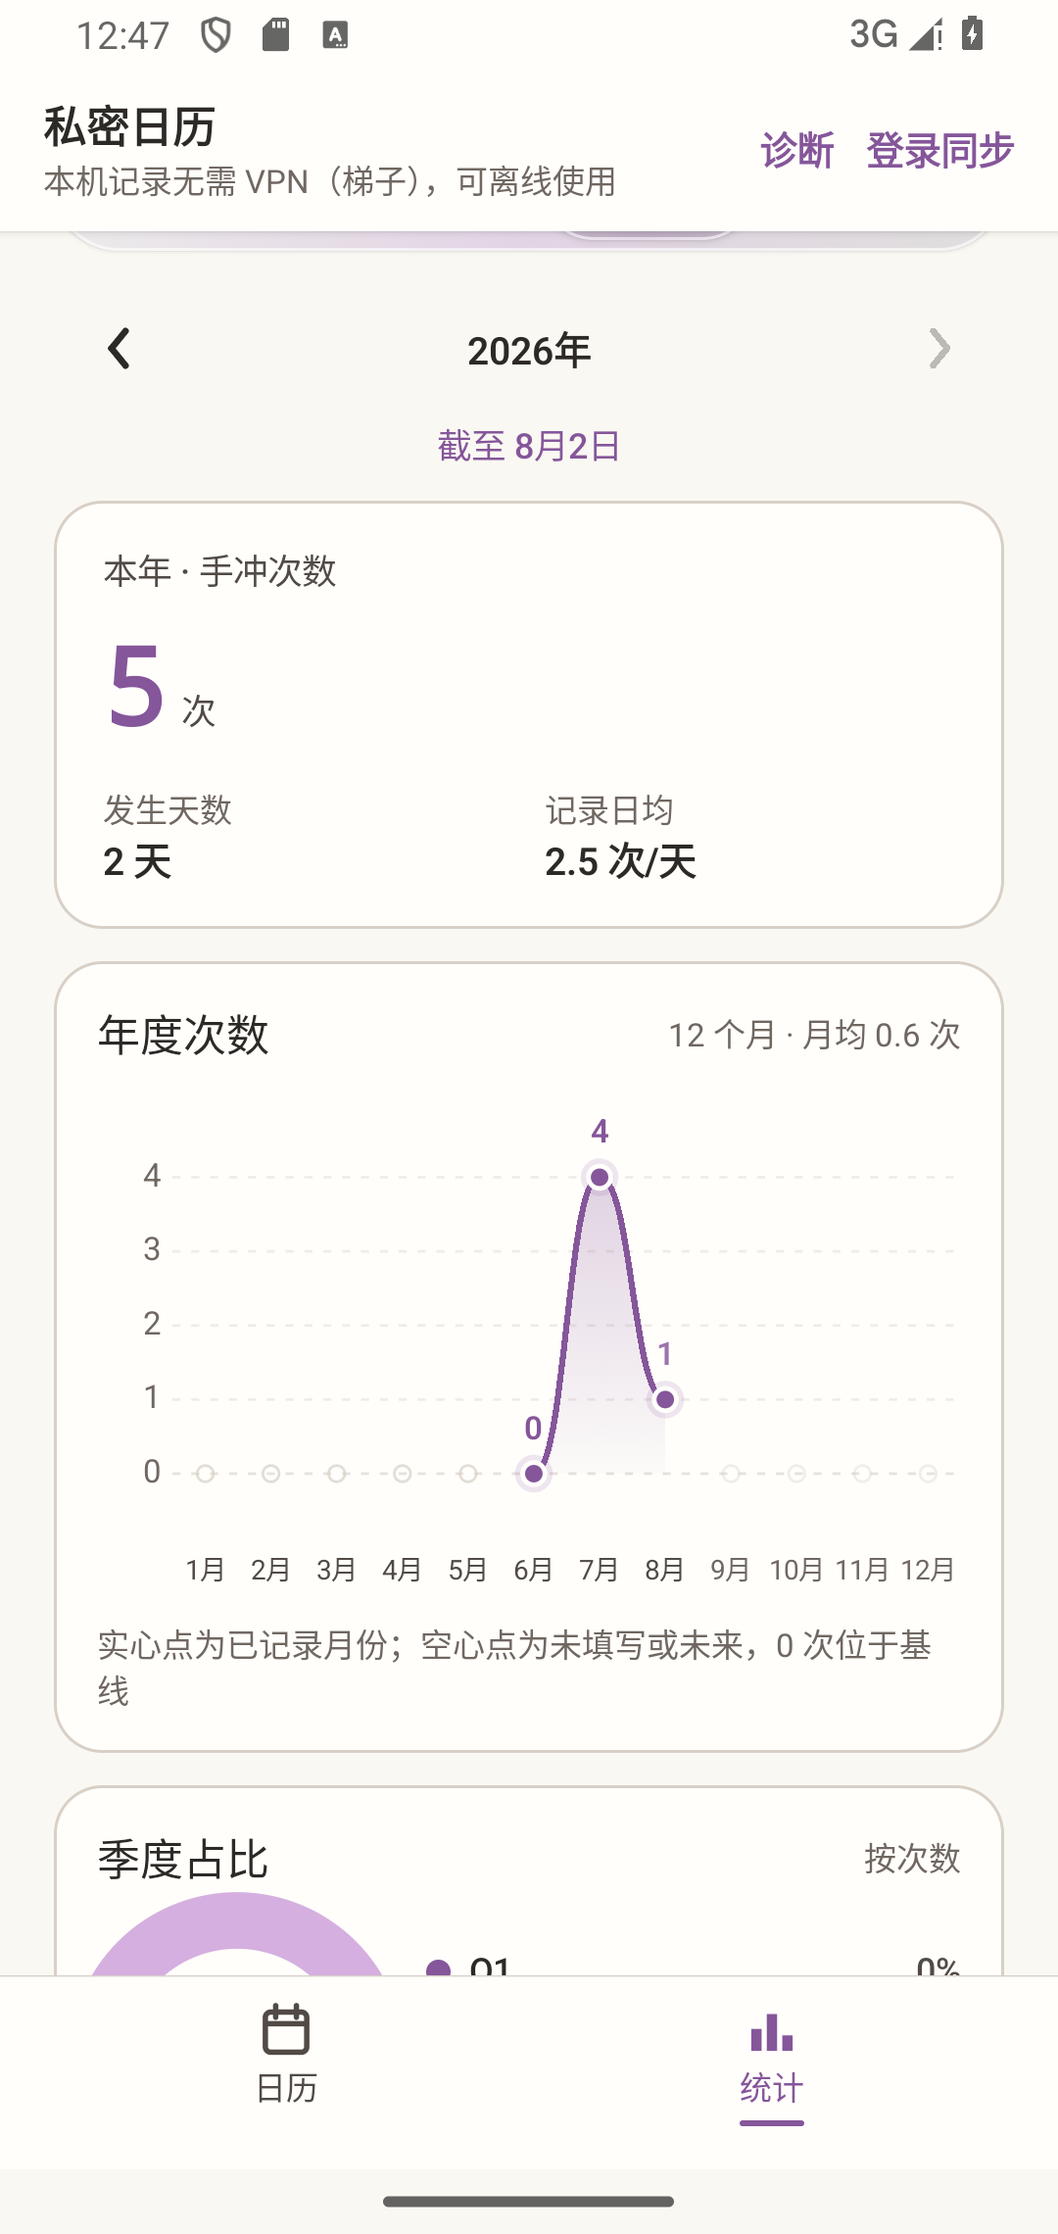
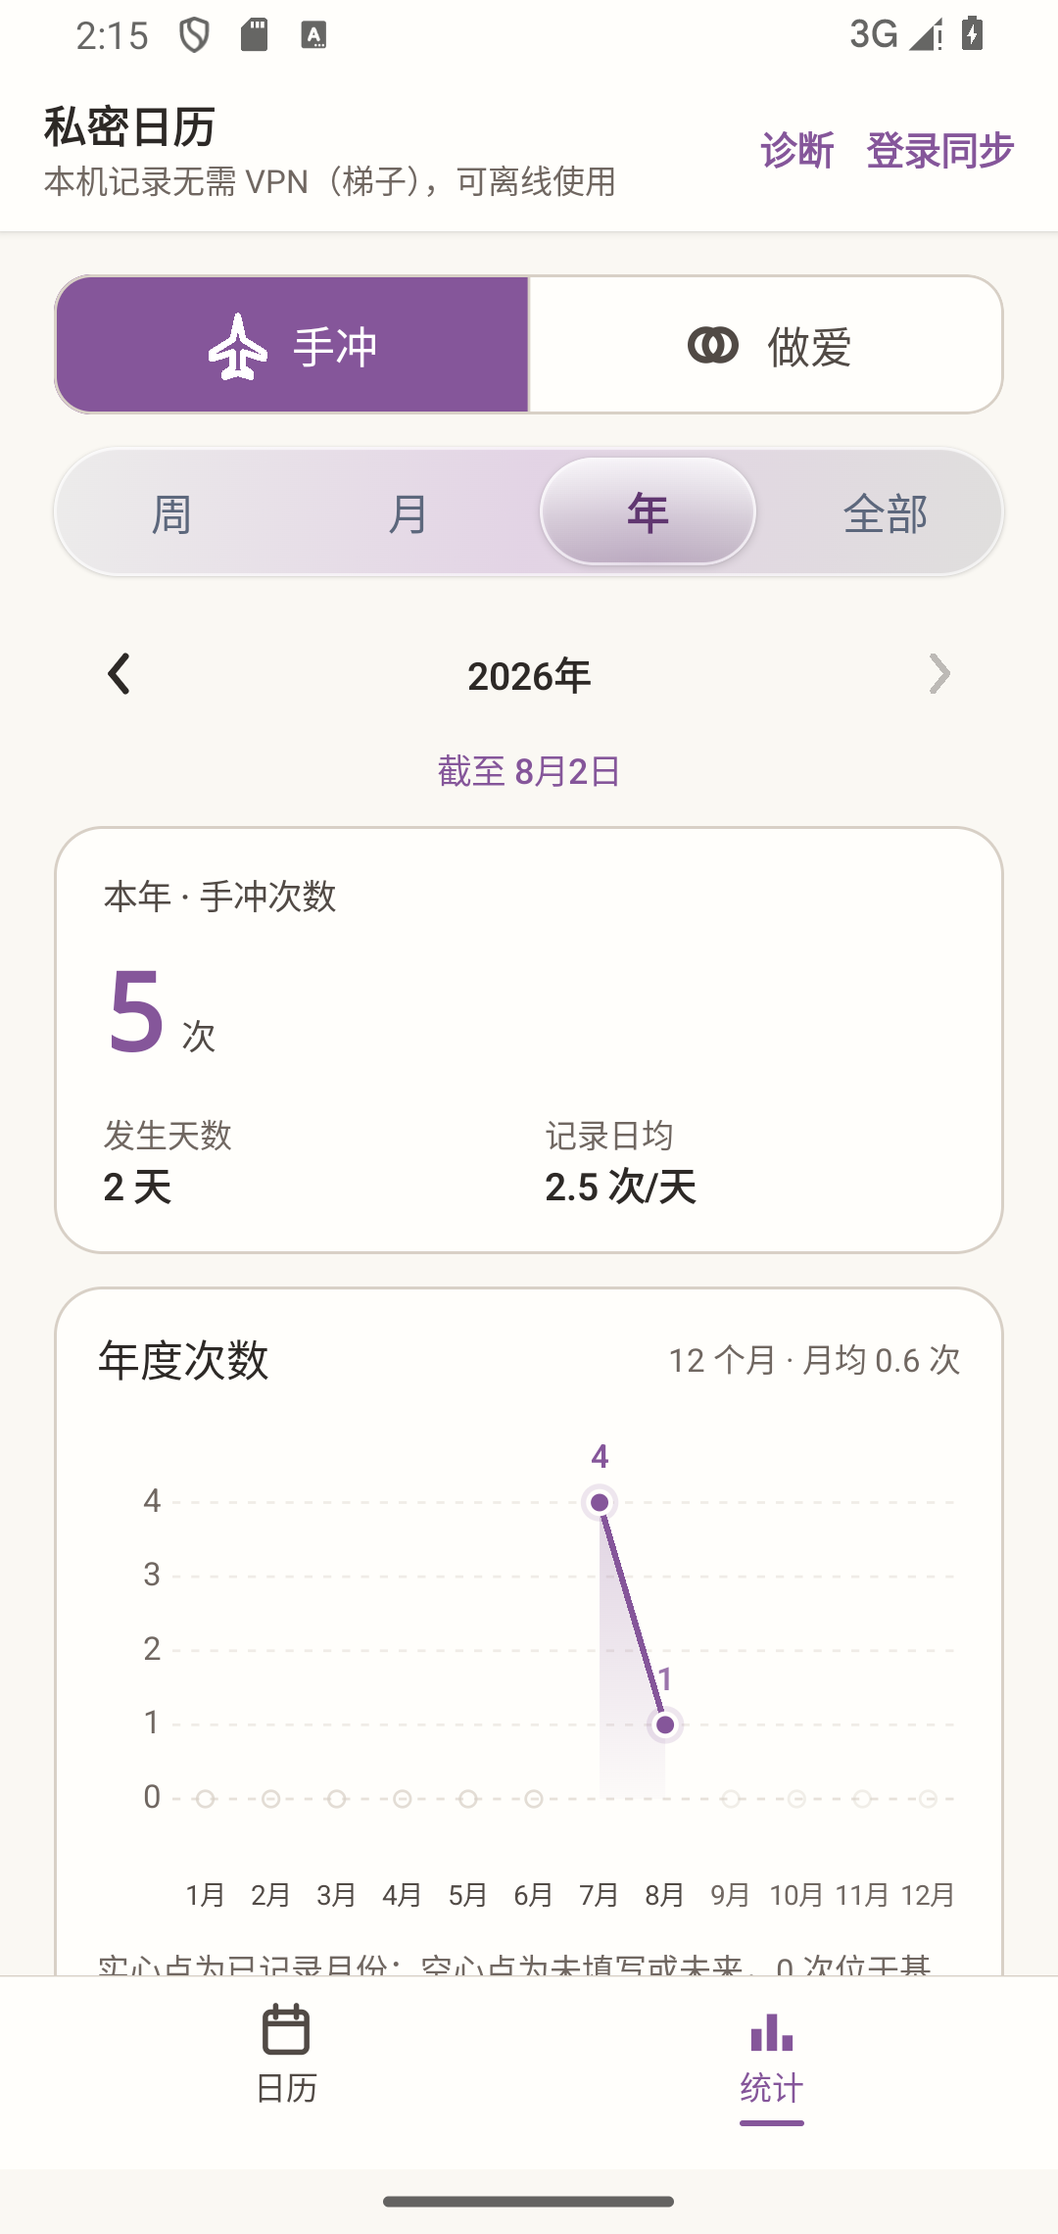
refine statistics layout and annual line motion

diff --git a/app/src/main/java/io/github/litaog/dailyrecord/ui/statistics/StatisticsYearLineChart.kt b/app/src/main/java/io/github/litaog/dailyrecord/ui/statistics/StatisticsYearLineChart.kt
@@ -57,7 +57,7 @@ internal data class YearLineChartScale(
     val ticks: List<Long>,
 )
 
-private const val YEAR_LINE_REVEAL_DURATION_MILLIS = 850
+private const val YEAR_LINE_REVEAL_DURATION_MILLIS = 1500
 private const val YEAR_LINE_REVEAL_DELAY_MILLIS = 70
 private const val YEAR_LINE_LABEL_FADE_SPAN = .04f
 
@@ -264,7 +264,7 @@ private fun YearLineChartPlot(
                 clipRect(right = revealRight) {
                     offsets.contiguousSegments().forEach { segment ->
                         if (segment.size > 1) {
-                            val fillPath = smoothYearLinePath(segment).apply {
+                            val fillPath = straightYearLinePath(segment).apply {
                                 lineTo(segment.last().x, plotBottomPx)
                                 lineTo(segment.first().x, plotBottomPx)
                                 close()
@@ -281,7 +281,7 @@ private fun YearLineChartPlot(
                                 ),
                             )
                             drawPath(
-                                path = smoothYearLinePath(segment),
+                                path = straightYearLinePath(segment),
                                 color = colors.primary,
                                 style = Stroke(width = 2.25.dp.toPx(), cap = StrokeCap.Round),
                             )
@@ -343,19 +343,11 @@ private fun List<Offset?>.contiguousSegments(): List<List<Offset>> = buildList {
     if (current.isNotEmpty()) add(current)
 }
 
-private fun smoothYearLinePath(points: List<Offset>): Path = Path().apply {
+private fun straightYearLinePath(points: List<Offset>): Path = Path().apply {
     if (points.isEmpty()) return@apply
     moveTo(points.first().x, points.first().y)
-    points.zipWithNext().forEach { (current, next) ->
-        val middleX = (current.x + next.x) / 2f
-        cubicTo(
-            middleX,
-            current.y,
-            middleX,
-            next.y,
-            next.x,
-            next.y,
-        )
+    points.drop(1).forEach { point ->
+        lineTo(point.x, point.y)
     }
 }
 

diff --git a/app/src/androidTest/java/io/github/litaog/dailyrecord/ui/DailyRecordAppTest.kt b/app/src/androidTest/java/io/github/litaog/dailyrecord/ui/DailyRecordAppTest.kt
@@ -12,6 +12,7 @@ import androidx.compose.ui.test.onNodeWithTag
 import androidx.compose.ui.test.onNodeWithText
 import androidx.compose.ui.test.performClick
 import androidx.compose.ui.test.performScrollTo
+import io.github.litaog.dailyrecord.core.common.AppCopy
 import io.github.litaog.dailyrecord.core.sync.SyncFailureKind
 import io.github.litaog.dailyrecord.core.sync.SyncStatus
 import io.github.litaog.dailyrecord.ui.account.VPN_SYNC_DIALOG_MESSAGE
@@ -53,6 +54,7 @@ class DailyRecordAppTest {
 
         composeRule.onNodeWithContentDescription("统计，未选择").performClick()
         composeRule.onNodeWithTag("statistics_screen").assertIsDisplayed()
+        composeRule.onAllNodesWithText(AppCopy.Statistics.title).assertCountEquals(1)
         listOf("月", "年", "全部", "周").forEach { period ->
             composeRule.onNodeWithContentDescription("${period}统计，未选择").performClick()
             composeRule.waitForIdle()

diff --git a/app/src/main/java/io/github/litaog/dailyrecord/ui/statistics/StatisticsScreen.kt b/app/src/main/java/io/github/litaog/dailyrecord/ui/statistics/StatisticsScreen.kt
@@ -124,9 +124,6 @@ internal fun DailyCountStatisticsScreen(
             )
         }
         item {
-            Text(AppCopy.Statistics.title, color = DailyRecordText, style = MaterialTheme.typography.headlineLarge)
-        }
-        item {
             PeriodTabs(
                 selected = period,
                 onSelected = { periodName = it.name },

diff --git a/design-qa.md b/design-qa.md
@@ -1,53 +1,42 @@
-# Design QA — 年度折线面积图
+# Design QA — 统计页标题与年度折线
 
 ## Evidence
 
-- Source visual truth: `docs/product/design/quiet-private-journal-v2/annual-line-chart-reference-rough.png`
-- Rendered implementation: `docs/product/audit/2026-08-02-year-line-chart/implementation.png`
-- Side-by-side focused comparison: `docs/product/audit/2026-08-02-year-line-chart/comparison.png`
-- Viewport: Pixel 4 API 34 emulator；物理宽度 `1080px`、`440dpi`，应用宽度约 `393dp`；截图包含系统栏，共 `1080×2400px`。
-- Source pixels: `1448×1592px`。
-- State: 手冲模块，2026 年；6 月明确 0 次、7 月 4 次、8 月 1 次，9–12 月为未来。
+- 标题移除参考：`docs/product/audit/2026-08-02-year-line-chart/title-removal-reference.png`
+- 年度图视觉参考：`docs/product/design/quiet-private-journal-v2/annual-line-chart-reference-rough.png`
+- 动画早期帧：`docs/product/audit/2026-08-02-year-line-chart/animation-early.png`
+- 最终实现：`docs/product/audit/2026-08-02-year-line-chart/implementation.png`
+- 设备：Pixel 4 API 34 模拟器，截图 `1080×2280px`，应用宽度约 `393dp`。
+- 数据状态：手冲模块，2026 年 7 月 4 次、8 月 1 次，其余月份保持明确 0、未填写或未来的既有语义。
 
-## Full-view comparison
+## 同屏对照
 
-完整实现截图确认统计汇总、年度卡、底部导航和滚动关系没有溢出或遮挡；年度卡保持当前项目的暖白 Surface、细边界和紫色模块身份。
+本轮将用户标注图和最终模拟器截图放在同一次视觉比较输入中检查，而不是分别凭记忆判断。结果如下：
 
-## Focused comparison
+- 页面级大标题“统计”已删除，底部导航的“统计”仍保留。
+- 模块切换器下方直接进入“周 / 月 / 年 / 全部”筛选器，筛选器和后续内容整体自然上移，没有负间距或覆盖。
+- 年度图中 7 月与 8 月以直线相连，不再进行曲线插值。
+- 字体、卡片圆角、模块颜色、网格、横轴月份和底部导航均保持现有设计体系，未出现裁切或横向溢出。
 
-同图对照确认以下五个表面：
+## 动画验收
 
-- 字体与排版：标题、月均、副轴刻度、节点数值和月份标签层级清楚；10–12 月完整显示。
-- 间距与节奏：纵轴、绘图区、月份轴和说明文字互不挤压，12 个分区等宽。
-- 颜色与 Token：折线、节点、辉光和面积渐变都来自当前模块色；网格与空心点使用低权重中性色。
-- 图像质量：图表由 Compose Canvas 矢量绘制，没有位图放大、锯齿资产或占位图。
-- 文案与内容：节点显示精确次数；未填写、未来和明确 0 没有被混同；TalkBack 描述覆盖全部月份。
+- 年度真实折线、渐变面积、实心节点和次数标签从左向右只揭示一次，时长约 `1.6s`（`70ms` 延迟 + `1500ms` 主动画）。
[2 lines of base64/hex data omitted]
+- 坐标轴、网格、月份、空心状态点始终静止，不会抢走真实数据的视觉焦点。
 
-参考图把未填写或未来月份画为 0；实现有意改为空心基线点且不连线。这是产品事实约束，不是视觉遗漏。
+## 交互与语义
 
-## Comparison history
-
-1. 首次模拟器截图发现窄屏下 `10月`、`11月`、`12月` 的“月”可能被裁切，判定为 P2。
-2. 横轴采用专用的紧凑字号与行高，重新安装并在同一设备宽度复拍。
-3. 复拍确认 12 个月标签完整，无剩余 P0、P1 或 P2 问题。
-
-## Primary interactions and runtime checks
-
-- 日历切换到统计页并选择“年”。
-- 年度折线仅对真实折线、渐变面积、实心节点和次数标签执行一次约 `0.9s` 的从左向右揭示；坐标轴、网格、月份和空心状态点保持静止。
-- 动画结束帧与等待 `1.2s` 后的空闲帧 SHA-256 一致，确认没有循环；退出到“月”再进入“年”可重新捕捉到起始帧。
-- 滚动查看年度折线、季度占比和月份摘要。
-- 切换到做爱模块，确认统计语义仍存在且使用模块 Token。
-- 打开年份选择器，确认“跳转到此年”。
-- 打开月份选择器，确认“跳转到此月”。
-- 检查 Android crash buffer：为空。
+- “周 / 月 / 年 / 全部”四个入口仍可点击，筛选状态未改动。
+- Android 定向设备测试确认统计页只有一个“统计”文本节点，即底部导航标签。
+- 未填写、未来和明确 0 的统计语义没有因本轮视觉修改而改变。
 
 ## Findings
 
-没有未解决的 P0、P1 或 P2 差异。
+没有未解决的 P0、P1 或 P2 视觉问题。
 
 ## Follow-up polish
 
-无必须在本轮继续处理的 P3；等待用户在真机上验收触感与实际数据密度。
+本轮不继续扩大范围；等待用户真机验收触感与实际数据密度。
 
 final result: passed

diff --git a/docs/product/audit/2026-08-02-year-line-chart/README.md b/docs/product/audit/2026-08-02-year-line-chart/README.md
@@ -1,32 +1,30 @@
-# 2026-08-02 年度折线与季度圆环定向验收
+# 2026-08-02 年度折线与统计页定向验收
 
 状态：`awaiting-user-acceptance`
 
 ## 本轮范围
 
-- 把年度次数主图从 12 月柱状图替换为单张平滑折线面积图。
-- 年度图进入页面或切换年度数据时只执行一次从左向右的揭示动画；网格和状态位置保持静止，动画结束后不循环。
-- 保留 12 个月横轴、动态整数刻度、轻量虚线网格、节点次数标签和当前模块色渐变。
-- 已记录月份使用实心点；明确 0 次位于基线；未填写或未来月份使用空心点、不连线、不预测。
-- 季度占比圆环直径由 `118dp` 缩小为 `104dp`，描边由 `24dp` 同比例缩小为 `21dp`。
-- 年份选择器按钮显示“跳转到此年”，月份选择器显示“跳转到此月”；日期选择器仍显示“跳转到此日”。
+- 删除周、月、年、全部四种统计周期共用的页面级大标题“统计”，筛选器和后续内容随正常布局整体上移；底部导航标签保留。
+- 年度次数主图使用相邻有效月份之间的直线连接，不进行曲线插值。
+- 进入年度统计或切换年度数据时，仅执行一次约 `1.6s` 的从左向右揭示；结束后不循环。
+- 保留 12 个月横轴、动态整数刻度、轻量虚线网格、节点次数标签和模块主题渐变。
+- 已记录月份使用实心点；明确 0 位于基线；未填写或未来月份使用空心点、不连线、不预测。
+- 延续同一阶段已经完成的季度圆环缩小与日期选择器粒度文案修正。
 
 ## 视觉证据
 
-- [粗略参考与实现同图对照](comparison.png)
-- [手冲年度折线实现](implementation.png)
+- [用户标注的标题移除参考](title-removal-reference.png)
+- [约 0.35 秒时的动画早期帧](animation-early.png)
+- [标题移除、布局上移和直线折线最终实现](implementation.png)
 - [缩小后的季度圆环](quarter-ring.png)
 
-实现没有照搬参考图中把所有空月份画成 0 的演示数据。该差异用于保护既有产品事实：未填写、未来和明确 0 必须保持不同。
+参考图和实现截图已在同一次视觉比较输入中并排检查。最终实现没有沿用旧的曲线中间态截图，避免审计资产与当前契约冲突。
 
 ## 定向验证
 
-- `:app:compileDebugKotlin`：通过。
-- `YearLineChartTest`：通过，覆盖整数刻度、明确 0、未填写和未来月份。
-- `YearLineChartTest`：补充揭示进度边界，确保次数标签只在扫描经过对应月份后出现。
-- `QuarterShareChartTest`：通过，保留单季度 100% 完整闭环。
-- `DateNavigationTest`：通过，覆盖日、月、年三种确认按钮文案。
-- API 34 模拟器：完成日历 → 统计 → 年、滚动、手冲/做爱切换、年份弹窗和月份弹窗检查；崩溃缓冲区为空。
-- API 34 动效复验：从“月”进入“年”时捕捉到起始揭示帧与完整结束帧；结束后间隔 `1.2s` 的两张截图 SHA-256 完全一致，确认静止且不循环；再次“月 → 年”后重新捕捉到未绘制完成的起始帧。
+- 统计导航设备测试：1 项通过，确认四个周期仍可点击且大标题已删除。
+- API 34 模拟器：确认标题消失、筛选器上移、7 月至 8 月为直线、动画早期帧与完成帧存在差异。
+- 完成帧与额外等待 `1.2s` 后的空闲帧 SHA-256 完全一致，确认动画不循环。
+- `git diff --check`、文档链接检查和敏感信息扫描均通过。
 
-按 [`TESTING.md`](../../../TESTING.md) 的增量规则，本轮没有重复运行与这些局部改动无关的完整设备套件，也没有启动 Stage 6 或发布流程。
+按照 [`TESTING.md`](../../../TESTING.md) 的增量测试规则，本轮不重复运行与这四处定向变化无关的完整设备套件，也不启动 Stage 6、发布或私有镜像同步。

diff --git a/docs/STATISTICS.md b/docs/STATISTICS.md
@@ -29,7 +29,7 @@ averagePerRecordedDay = totalCount / occurredDays
 
 - 周视图：固定周一到周日，以七日分布卡逐日直接标注次数和日号；过去未填写显示“未填”，明确 0 次显示 `0`，未来日显示“未来”，TalkBack 仍读出完整日期、次数和天数。
 - 月视图：按当前 `YearMonth` 生成 5 或 6 个只包含本月日期的周桶，展示每周次数柱、发生天数、活跃周数和峰值周；不再重复绘制主页日期网格。切换月份必须重新构建周桶，不保留前一月的行或数值。过去未填写、明确 0 次、正次数和未来周使用不同语义，0 次柱高严格为 0。
-- 年分析：固定 12 个月平滑折线面积图，并列出季度次数占比、最高月份和最低月份。每月都保留横轴位置；已记录月份显示实心点和次数，明确 0 次落在基线，未填写或未来月份只显示空心位置标记且不参与连线。进入年度统计或切换年度数据时，真实折线、面积、实心节点和次数标签从左向右揭示一次，结束后保持静止且不循环；坐标轴、网格、月份和空心状态点始终稳定显示。未来月份为空，进行中的月份可以展示已发生事实但不进入极值排名；没有合格月份或季度总数为 0 时显示空状态。
+- 年分析：固定 12 个月直线折线面积图，并列出季度次数占比、最高月份和最低月份。相邻有效月份以直线连接，不使用曲线插值。每月都保留横轴位置；已记录月份显示实心点和次数，明确 0 次落在基线，未填写或未来月份只显示空心位置标记且不参与连线。进入年度统计或切换年度数据时，真实折线、面积、实心节点和次数标签用约 1.6 秒从左向右揭示一次，结束后保持静止且不循环；坐标轴、网格、月份和空心状态点始终稳定显示。未来月份为空，进行中的月份可以展示已发生事实但不进入极值排名；没有合格月份或季度总数为 0 时显示空状态。
 - 全部历史：按年份汇总当前模块次数和发生天数。
 
 汇总卡、分布图和表格必须使用相同日期范围；明细加总必须等于汇总。分布图只表达已发生事实，不做预测。

diff --git a/docs/product/design/quiet-private-journal-v2/README.md b/docs/product/design/quiet-private-journal-v2/README.md
@@ -92,7 +92,7 @@
 - 总次数是唯一主指标；发生天数和记录日均是辅助事实。
 - 周、月、年、全部使用同一浏览日期、统计口径与视觉语法。
 - 月统计使用当前月份的 5/6 个周聚合柱状卡，展示每周次数、发生天数、活跃周数和峰值周；不重复主页日期网格。未来周为空，不预测，明确 0 与未填写保持不同。
-- 年统计使用单张 12 个月平滑折线面积图、季度占比圆环、月均次数、最高月份和最低月份，不再使用手机端过密的 53×7 年度逐日热力图。
+- 年统计使用单张 12 个月直线折线面积图、季度占比圆环、月均次数、最高月份和最低月份，不再使用手机端过密的 53×7 年度逐日热力图。相邻有效月份直接用直线连接，不使用曲线插值。
 - 每个已记录月份使用高亮实心点并在上方标记精确次数；明确 0 次落在基线，未填写和未来月份只显示空心位置标记且不参与连线。柱状图与折线图不重复堆叠。
 - 年度折线在进入年度统计或切换年度数据时从左向右揭示一次；坐标、月份与空心状态点不参与动画，完成后保持静止，禁止循环播放。
 - 旧图中的年度热力图区域已被 2026-07-30 的产品决策替代；Stage 4 实现前必须先结合既有竞品研究和届时的优秀移动统计案例，补充新的统计页高保真图。参考产品只提供信息层级、图表密度、动效和空状态启发，不限制新构图，也不直接复制闭源或 GPL 资产与代码。

diff --git a/docs/product/QUIET_PRIVATE_JOURNAL_GOALS.md b/docs/product/QUIET_PRIVATE_JOURNAL_GOALS.md
@@ -91,7 +91,7 @@
 - 总次数是唯一主指标；发生天数和记录日均为辅助事实，不使用三张等权 KPI 卡。
 - 0 次图形为真正零高度；未填写不伪装成 0；未来不预测。
 - 月统计使用当前月的 5/6 个周聚合柱，展示次数、发生天数、活跃周数和峰值周；不再重复日历页的真实日期网格。周桶由当前 `YearMonth` 的真实 `LocalDate` 生成，与日历页共用未填写、明确 0 和未来语义。
-- 年统计不使用 53×7 的逐日热力图，避免手机端过密；主图固定为单张 12 个月平滑折线面积图，每月显示轴标签，已记录点上方显示精确次数。
+- 年统计不使用 53×7 的逐日热力图，避免手机端过密；主图固定为单张 12 个月直线折线面积图，相邻有效月份直接用直线连接，每月显示轴标签，已记录点上方显示精确次数。
 - 明确 0 次使用基线实心点；未填写和未来月份使用空心位置标记、不参与连线，也不制造预测。年统计另外提供季度次数占比圆环、月均次数、最高月份和最低月份；不再同时堆叠表达相同趋势的柱状图。
 - 当前年份的未来月份为空，进行中的当前月可以显示但不进入最高/最低排名；过去年份使用全部 12 个月。
 - 最高/最低月份只在至少存在一条已保存记录的完整月份中计算，未填写月份不伪装成 0；明确保存 0 的月份可以合法成为最低月份。
